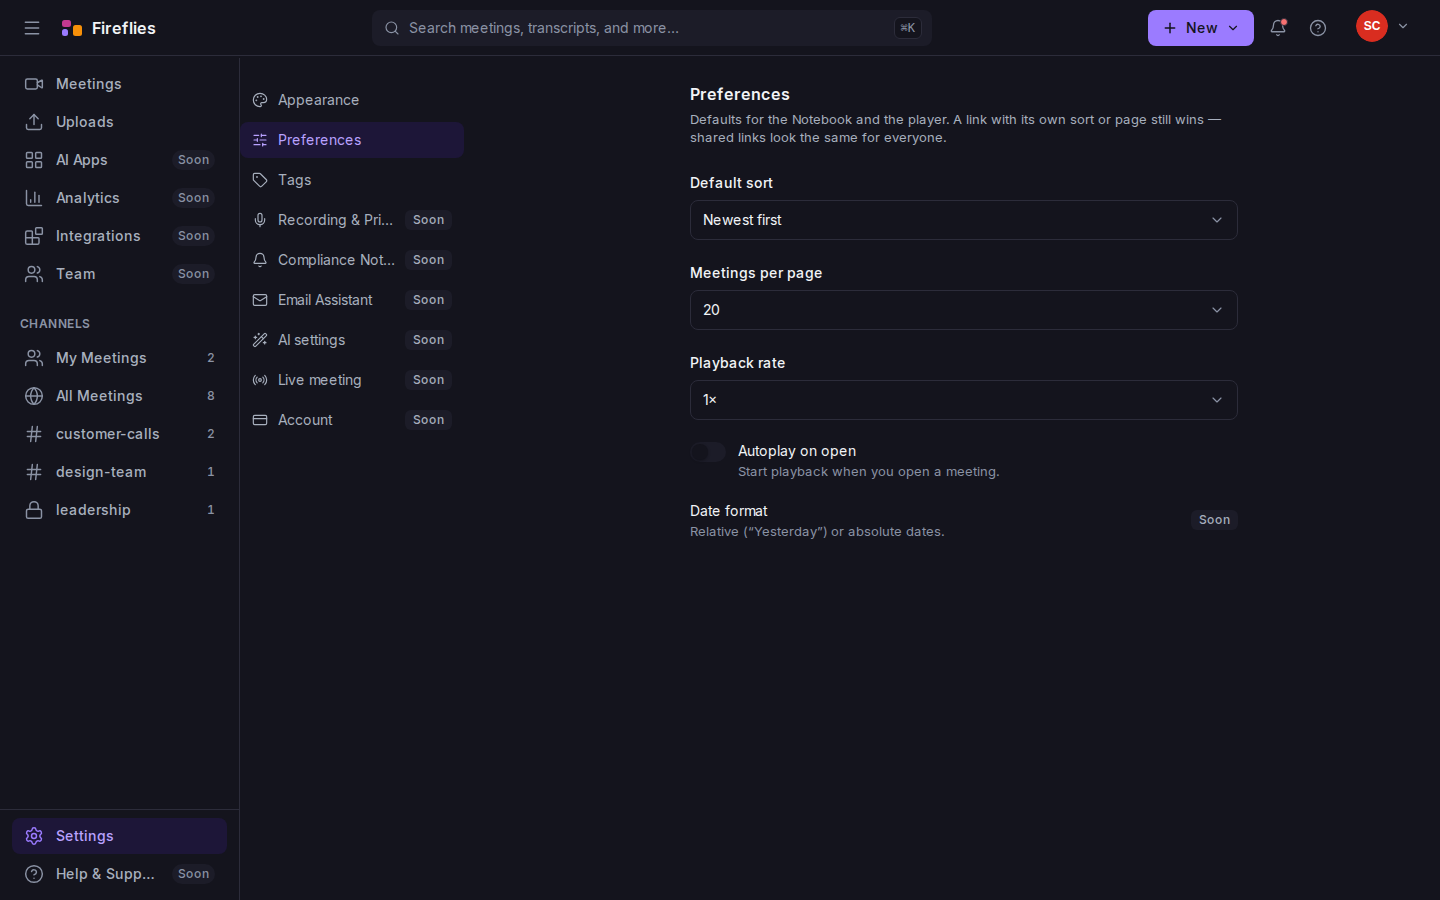
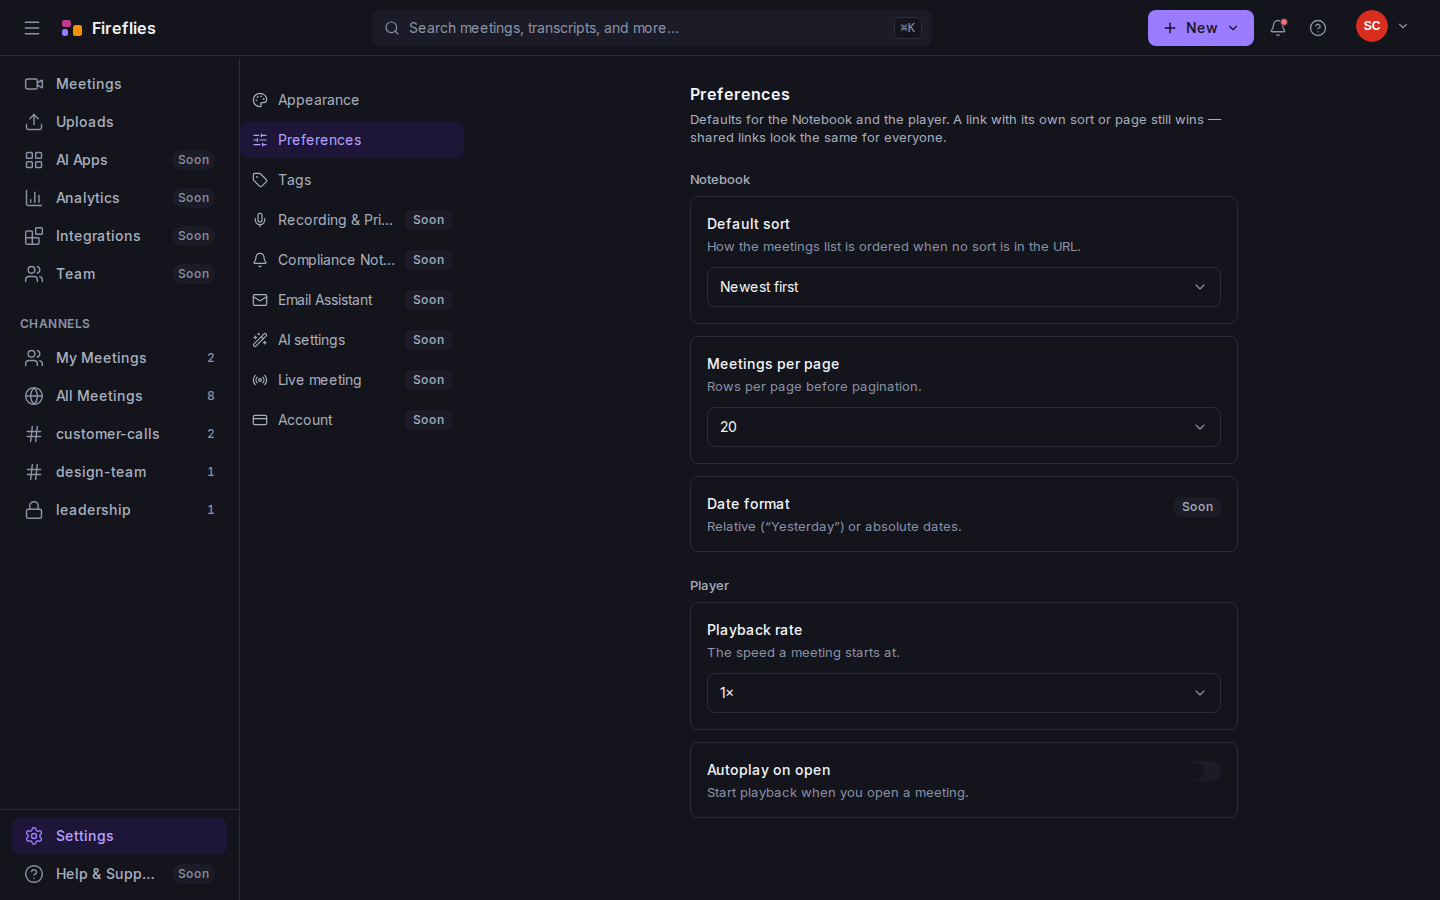
T-46.1 item 10: settings become cards, matching the reference anatomy
The measure and symmetry were fixed earlier; this is the structure. Read off
07.png and confirmed on 08.png: a section heading above a group of bordered
cards, each with a title and one line of description, a toggle at the trailing
edge aligned to the title, and a dropdown spanning the card's full width on its
own row beneath the description.

The two control positions are not the same, and an earlier draft of the audit
said "control right" for everything — true of switches, false of selects.
Building from that draft would have produced a third layout matching neither
document, so SettingCard has two slots rather than one.

No change to Select. Both primitives already had the seam: Select takes
hideLabel, Switch takes ariaLabel, so each renders bare while the visible label
moves into the card and the accessible name survives. The Notebook toolbar's
inline selects are untouched — that coupling was what made this look risky and
it turned out not to exist.

Retires an older hazard too: three Selects as direct siblings under space-y-*
used to flow onto one line and read "Meetings per pagePlayback rate", because
Select renders an inline-flex span. Each now sits alone in a card, so the
collision cannot recur rather than being suppressed by a wrapper.

Measured after: the block is unchanged at 547px / 57.4% of the column, gutters
202/204, against the reference's 57.6% and 336/345. Suite green: 548 e2e, 440
pytest, 287 vitest.

diff --git a/frontend/src/features/placeholders/settings/preferences-panel.tsx b/frontend/src/features/placeholders/settings/preferences-panel.tsx
@@ -12,6 +12,7 @@
  * - date format → stored nowhere yet, so it says `Soon` instead of lying
  */
 
+import { SettingCard, SettingGroup } from './setting-card'
 import { Badge } from '@/components/ui/chip'
 import { Select } from '@/components/ui/select'
 import { Switch } from '@/components/ui/controls'
@@ -52,73 +53,92 @@ export function PreferencesPanel() {
       </header>
 
       {/*
-        Each control in its own BLOCK wrapper.
+        Cards, not a flat form — the reference's anatomy (T-46.1 item 10). The
+        label moves into the card and the control renders bare via `hideLabel`
+        / `ariaLabel`, which both primitives already support.
 
-        `Select` renders an `inline-flex` span — deliberately, because the
-        Notebook toolbar's sort dropdown and the pagination size picker sit
-        inline beside other controls. Three of them as direct siblings
-        therefore flowed onto one line, and `space-y-*` (a `margin-top` rule)
-        does nothing about that: the labels butted together and read as
-        "Meetings per pagePlayback rate".
-
-        A `flex` class on the Select would be the obvious fix and the wrong
-        one — `inline-flex` and `flex` both set `display`, `cn` deliberately
-        does not resolve conflicts, and the winner would be Tailwind's class
-        order rather than this file's intent (ADR-103). A wrapper cannot lose
-        that argument.
+        This also retires the older hazard recorded here: `Select` renders an
+        `inline-flex` span, so three as direct siblings under `space-y-*` flowed
+        onto one line and read "Meetings per pagePlayback rate". A `flex` class
+        on the Select would have been the obvious fix and the wrong one —
+        `inline-flex` and `flex` both set `display` and `cn` does not resolve
+        conflicts (ADR-103). Each select now sits alone in a card, so the
+        collision cannot recur.
       */}
-      <div className="space-y-5">
-        <div>
-          <Select
-            label="Default sort"
-            value={defaultSort}
-            onValueChange={(value) => setDefaultSort(value as SortValue)}
-            options={SORT_OPTIONS.map((option) => ({ ...option }))}
-            testId="settings-default-sort"
-            className="w-full"
-          />
-        </div>
-
-        <div>
-          <Select
-            label="Meetings per page"
-            value={String(pageSize)}
-            onValueChange={(value) => setPageSize(Number(value) as PageSize)}
-            options={PAGE_SIZES.map((size) => ({ value: String(size), label: String(size) }))}
-            testId="settings-page-size"
-            className="w-full"
-          />
-        </div>
-
-        <div>
-          <Select
-            label="Playback rate"
-            value={String(rate)}
-            onValueChange={(value) => setRate(parseRate(value))}
-            options={RATES.map((value) => ({ value: String(value), label: `${value}×` }))}
-            testId="settings-playback-rate"
-            className="w-full"
-          />
-        </div>
-
-        <Switch
-          checked={autoplay}
-          onCheckedChange={setAutoplay}
-          label="Autoplay on open"
-          description="Start playback when you open a meeting."
-          testId="settings-autoplay"
+      <SettingGroup title="Notebook">
+        <SettingCard
+          title="Default sort"
+          description="How the meetings list is ordered when no sort is in the URL."
+          control={
+            <Select
+              label="Default sort"
+              hideLabel
+              value={defaultSort}
+              onValueChange={(value) => setDefaultSort(value as SortValue)}
+              options={SORT_OPTIONS.map((option) => ({ ...option }))}
+              testId="settings-default-sort"
+              className="w-full"
+            />
+          }
         />
 
-        <div className="flex items-center justify-between gap-3">
-          <div>
-            <p className="text-body text-primary">Date format</p>
-            <p className="text-sm text-muted">Relative (“Yesterday”) or absolute dates.</p>
-          </div>
-          <Badge variant="neutral" testId="settings-date-format-soon">
-            Soon
-          </Badge>
-        </div>
-      </div>
+        <SettingCard
+          title="Meetings per page"
+          description="Rows per page before pagination."
+          control={
+            <Select
+              label="Meetings per page"
+              hideLabel
+              value={String(pageSize)}
+              onValueChange={(value) => setPageSize(Number(value) as PageSize)}
+              options={PAGE_SIZES.map((size) => ({ value: String(size), label: String(size) }))}
+              testId="settings-page-size"
+              className="w-full"
+            />
+          }
+        />
+
+        <SettingCard
+          title="Date format"
+          description="Relative (“Yesterday”) or absolute dates."
+          trailing={
+            <Badge variant="neutral" testId="settings-date-format-soon">
+              Soon
+            </Badge>
+          }
+        />
+      </SettingGroup>
+
+      <SettingGroup title="Player">
+        <SettingCard
+          title="Playback rate"
+          description="The speed a meeting starts at."
+          control={
+            <Select
+              label="Playback rate"
+              hideLabel
+              value={String(rate)}
+              onValueChange={(value) => setRate(parseRate(value))}
+              options={RATES.map((value) => ({ value: String(value), label: `${value}×` }))}
+              testId="settings-playback-rate"
+              className="w-full"
+            />
+          }
+        />
+
+        <SettingCard
+          title="Autoplay on open"
+          description="Start playback when you open a meeting."
+          trailing={
+            <Switch
+              checked={autoplay}
+              onCheckedChange={setAutoplay}
+              ariaLabel="Autoplay on open"
+              testId="settings-autoplay"
+            />
+          }
+        />
+      </SettingGroup>
     </section>
   )
 }

diff --git a/frontend/src/features/placeholders/settings/setting-card.tsx b/frontend/src/features/placeholders/settings/setting-card.tsx
@@ -1,0 +1,71 @@
+import type { ReactNode } from 'react'
+
+/**
+ * One setting, as a bordered card — the anatomy read off
+ * `docs/reference/fireflies/07.png` and confirmed on `08.png` (T-46.1, item 10).
+ *
+ * Fireflies renders each setting as its own card inside a section group, and
+ * the two control positions are NOT the same:
+ *
+ *   ┌──────────────────────────────────────────────┐
+ *   │  Auto-record meetings              [toggle]  │   trailing, aligned to the title
+ *   │  Fireflies notetaker will join…              │
+ *   │  ┌────────────────────────────────────────┐  │
+ *   │  │ Record all calendar events…         ▾  │  │   full width, its own row
+ *   │  └────────────────────────────────────────┘  │
+ *   └──────────────────────────────────────────────┘
+ *
+ * An earlier draft of the audit said "control right" for everything. That is
+ * true of switches and false of dropdowns, and building from it would have
+ * produced a third layout matching neither document. Hence two slots rather
+ * than one: `trailing` sits beside the title, `control` spans the card below
+ * the description.
+ *
+ * The label lives HERE, not in the control. Both primitives already support
+ * that without changing their defaults — `Select` takes `hideLabel` and
+ * `Switch` takes `ariaLabel` with no visible label — so the accessible name
+ * survives while the visible one moves into the card. Nothing about the
+ * Notebook toolbar's inline selects changes.
+ */
+export function SettingCard({
+  title,
+  description,
+  trailing,
+  control,
+  testId,
+}: {
+  title: string
+  description?: string
+  /** Aligned to the title. For switches and badges. */
+  trailing?: ReactNode
+  /** Full width, on its own row under the description. For selects. */
+  control?: ReactNode
+  testId?: string
+}) {
+  return (
+    <div className="rounded-md border border-subtle bg-surface-0 p-4" data-testid={testId}>
+      <div className="flex items-start justify-between gap-4">
+        <div className="min-w-0">
+          <p className="text-body font-medium text-primary">{title}</p>
+          {description ? <p className="mt-0.5 text-sm text-muted">{description}</p> : null}
+        </div>
+        {trailing ? <div className="shrink-0">{trailing}</div> : null}
+      </div>
+
+      {control ? <div className="mt-3">{control}</div> : null}
+    </div>
+  )
+}
+
+/**
+ * A titled group of cards, as `Recording` and `Customization` are in the
+ * reference. The heading sits outside the cards, on their left edge.
+ */
+export function SettingGroup({ title, children }: { title: string; children: ReactNode }) {
+  return (
+    <section className="space-y-2">
+      <h3 className="text-sm font-medium text-secondary">{title}</h3>
+      <div className="space-y-3">{children}</div>
+    </section>
+  )
+}

diff --git a/docs/ui-audit.md b/docs/ui-audit.md
@@ -294,8 +294,11 @@ defect — three `Select`s are inline elements, and as direct siblings under
 `space-y-*` they lined up on one row with their labels butted together.
 Bounding the column fixed the break and stranded the panel.
 
-The measure and the symmetry are fixed. The **card anatomy** is not, and is
-worth doing next — read off `07.png`:
+**Both are now fixed.** The measure and symmetry landed first (547px, 57.4%,
+gutters 202/204); the card anatomy followed. Measured after the restructure the
+block is unchanged at 547px / 57.4% — the cards sit inside the same measure.
+
+The anatomy, read off `07.png` and confirmed on `08.png`, is what was built:
 
 - A section heading (`Recording`) above a group of bordered cards.
 - Each card: a small icon at the left, then title and one line of description.
@@ -308,9 +311,21 @@ That last point is where the first draft of this entry was wrong: it said
 selects. Building it that way would have produced a third layout matching
 neither document.
 
-Deferred out of a verification cycle rather than rushed — it changes how
-`Select` composes its own label, on a graded surface, with no test covering it.
-It is the first thing to pick up next.
+It needed no change to `Select` in the end. Both primitives already had the
+seam: `Select` takes `hideLabel` and `Switch` takes `ariaLabel`, so each renders
+bare while the visible label moves into the card and the accessible name
+survives. The Notebook toolbar's inline selects are untouched, which was the
+constraint that made this look risky.
+
+It also retired an older hazard. Three `Select`s as direct siblings under
+`space-y-*` used to flow onto one line — `Select` renders an `inline-flex` span
+— and read "Meetings per pagePlayback rate". Each now sits alone in a card, so
+the collision cannot recur rather than being suppressed by a wrapper.
+
+**Still different from the reference:** their cards carry a small product icon
+left of each title. Ours do not, because ours would be invented — there is no
+calendar integration behind a calendar glyph here. Structure, measure and
+control placement match; the iconography is the honest gap.
 
 ## Verified equivalent
 
